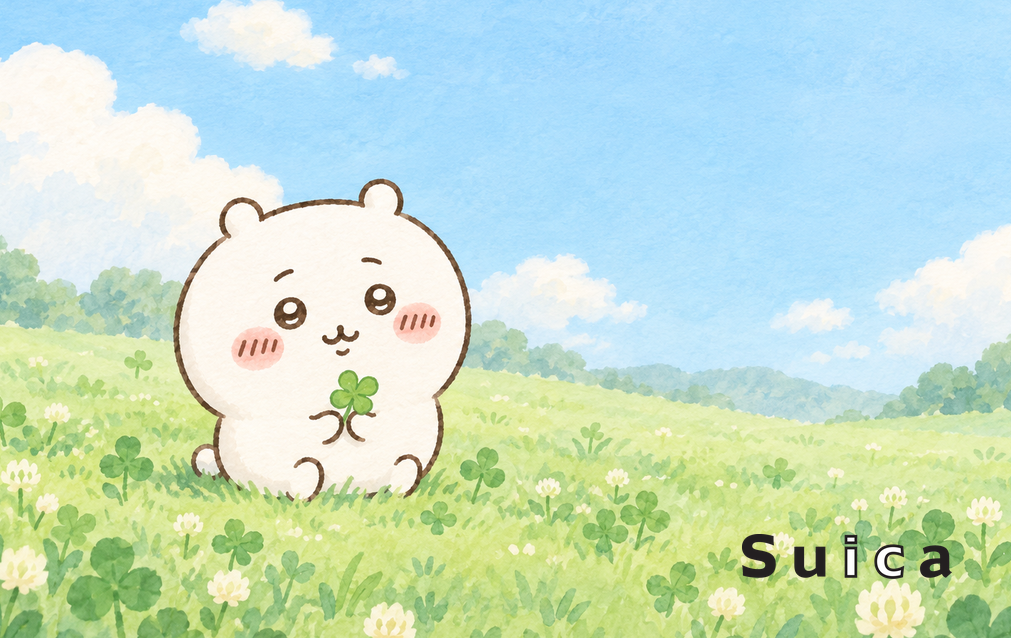
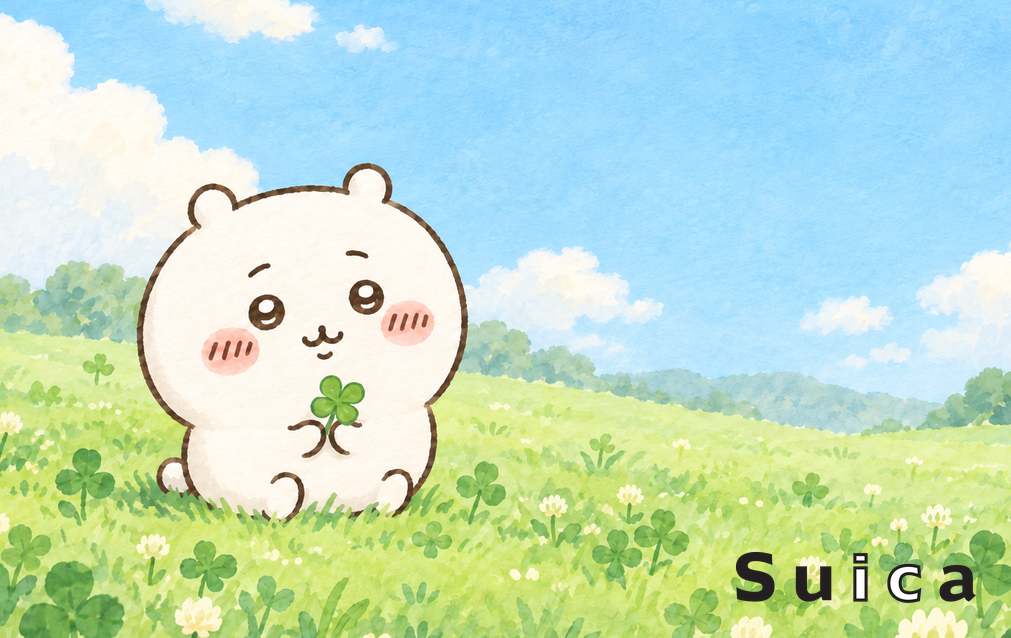
feat: refine card examples with layout direction

diff --git a/README.md b/README.md
@@ -98,8 +98,8 @@ skillhub install card-creator
 默认精确模式中，ImageGen 只负责背景，`card-creator` 再叠加 `status: ready` 的透明贴纸；
 用户明确选择风格化模式时，ImageGen 可以参考可追溯 Logo 做非官方材质化诠释。下面的预览限制
 为 `600 px` 宽，仓库仍保留完整
-`1011 × 638 px` 裁切图。第 1、3、4 张是已贴标成品；第 2 张故意只展示背景，因为它请求的
-两个城市交通标志当前不可合成，不是 Skill 失效或漏贴。非接触感应标志不会默认加入任何示例。
+`1011 × 638 px` 裁切图。第 1、3 张使用 `ready` 透明贴纸精确合成；第 2、4 张是用户明确选择的
+非官方风格化诠释。非接触感应标志不会默认加入任何示例。
 
 ### 1. Chiikawa × Suica
 
@@ -115,9 +115,9 @@ skillhub install card-creator
 ```text
 请参考 https://github.com/juju-w/card-creator-skill 的尺寸与安全区规则，并结合我在当前对话上传的参考图（参考图如上），生成一张清新可爱的 Chiikawa × Suica 非官方个人同人卡面。画面是春日浅绿色草地、淡蓝天空、圆润白云和柔和水彩水粉质感；Chiikawa 单独坐在画面偏左位置，表情开心，手里拿着四叶草。右下角留出干净空间。
 
-输出横向平面画稿，宽高比 1.58577:1，目标裁切尺寸 1011 × 638 px、300 DPI。背景必须铺满画布，人物和重要细节位于中央安全区。不要生成卡片样机、手、透视、圆角遮罩、边框、阴影、卡号、二维码、条形码、水印或无关文字。
+输出横向平面画稿，宽高比 1.58577:1，目标裁切尺寸 1011 × 638 px、300 DPI。背景必须铺满画布，人物和重要细节避免非预期裁切；蓝色安全线只是小字和功能信息参考。不要生成卡片样机、手、透视、圆角遮罩、边框、阴影、卡号、二维码、条形码、水印或无关文字。
 
-如果我上传了 Suica 透明 PNG，请把它原样放在右下安全区，保持比例、颜色和透明度，不要重画、改字或风格化；如果没有收到贴纸文件，就只保留空位，不要生成近似 Suica Logo。请直接生成一张完整卡面预览，并附上最终使用的 Prompt。
+如果我上传了 Suica 透明 PNG，请把它原样放在右下自然卡角位置，保持比例、颜色和透明度，不要重画、改字或风格化；由 Skill 自动检查它与角色的视觉重量和实体裁切边距。如果没有收到贴纸文件，就只保留空位，不要生成近似 Suica Logo。请直接生成一张完整卡面预览，并附上最终使用的 Prompt。
 ```
 
 <details>
@@ -139,25 +139,24 @@ Constraints: background artwork only; no logo, no brand mark, no Suica text, no 
 
 </details>
 
-### 2. 北京水墨交通卡背景（城市标志不可用）
+### 2. 北京水墨 × 市政交通一卡通 × 交通联合
 
 <p align="center">
   <img src="examples/beijing-ink-transit-background.png" width="600" alt="北京水墨交通卡背景示例">
 </p>
 
-**这张图是背景稿，不是已贴标成品。** 背景已完成，并为“交通联合”和“北京一卡通”预留右侧双贴纸位。
-交通联合目前是 `blocked`；北京一卡通官网页头样本是 `reference-only`。因此示例没有调用非自由
-SVG、错版官网页头图或 AI 近似 Logo。
+这张图使用显式风格化模式：左上保留市政交通一卡通常见的正常组合标，右下使用交通联合卡角
+标志，并把两者转成与宣纸水墨一致的矿物蓝、朱砂与晕染边缘。它们仍分别是 `reference-only`
+和 `blocked`，因此这是标注清楚的非官方艺术化诠释，不会进入精确 `ready` 贴纸包。
 
-直接复制给 ChatGPT / Gemini（如果你已经有可用的“交通联合”和“北京一卡通”透明图，请与参考图
-一起上传）：
+直接复制给 ChatGPT / Gemini（上传可追溯的“市政交通一卡通”和“交通联合”卡面参考）：
 
 ```text
-请参考 https://github.com/juju-w/card-creator-skill 的尺寸与安全区规则，并结合我在当前对话上传的参考图（参考图如上），生成一张北京主题的现代水墨交通卡卡面。用暖象牙色宣纸铺满画布，左侧绘制完整的天坛，远处是薄雾中的长城和山势，整体留白克制、安静、有现代编辑感；右侧预留上下两个干净的贴纸位置。
+请参考 https://github.com/juju-w/card-creator-skill 的尺寸与构图规则，并结合我在当前对话上传的参考图（参考图如上），生成一张北京主题的现代水墨交通卡卡面。用暖象牙色宣纸铺满画布，左侧绘制天坛，远处是薄雾中的长城和山势，整体留白克制、安静、有现代编辑感。
 
-输出横向平面画稿，宽高比 1.58577:1，目标裁切尺寸 1011 × 638 px、300 DPI。重要建筑必须完整留在中央安全区，不要裁断天坛。不要生成卡片样机、手、透视、圆角遮罩、边框、阴影、卡号、二维码、条形码、水印、汉字或无关文字。
+输出横向平面画稿，宽高比 1.58577:1，目标裁切尺寸 1011 × 638 px、300 DPI。建筑和水墨可以自然出边，但不得非预期裁断天坛主体。不要生成卡片样机、手、透视、圆角遮罩、边框、阴影、卡号、二维码、条形码、水印或无关文字。
 
-如果我同时上传了“交通联合”和“北京一卡通”的透明贴纸，请保持原始比例、颜色和透明度，将它们原样放入右侧两个安全位置，不要重画或近似；如果没有收到贴纸文件，就只生成背景并保留空位。请直接生成一张完整卡面预览，并附上最终使用的 Prompt。
+根据参考卡面，把市政交通一卡通常见的图形＋名称组合放在左上，把紧凑交通联合标志放在右下；两者都转换成与水墨画统一的矿物蓝、少量朱砂和晕染纸纹，并标注为非官方风格化诠释。由 Skill 自动复核两个标志的视觉重量和光学边距，不加入感应支付标志。如果缺少任一参考，就保留该位置，不要凭空补画。请直接生成一张完整卡面预览，并附上最终使用的 Prompt。
 ```
 
 <details>
@@ -195,7 +194,7 @@ Mastercard 双圆标志仍由 Skill 使用已核验 PNG 叠加，不让模型重
 
 输出横向平面画稿，宽高比 1.58577:1，目标裁切尺寸 1011 × 638 px、300 DPI。背景铺满画布，重要线条交点位于中央安全区。不要生成芯片、卡号、二维码、条形码、水印、无关文字、卡片样机、手、透视、圆角遮罩、边框或阴影，也不要用背景圆形近似 Mastercard 标志。
 
-如果我上传了 Mastercard 透明 PNG，请保持其红橙配色、比例和透明度，将它原样放在右下安全区，不要重画、改色或风格化；如果没有收到贴纸文件，就只保留空位。请直接生成一张完整卡面预览，并附上最终使用的 Prompt。
+如果我上传了 Mastercard 透明 PNG，请保持其红橙配色、比例和透明度，将它原样放在右下自然卡角位置，不要重画、改色或风格化；由 Skill 自动检查它与抽象线条的视觉重量和实体裁切边距。如果没有收到贴纸文件，就只保留空位。请直接生成一张完整卡面预览，并附上最终使用的 Prompt。
 ```
 
 <details>

diff --git a/README_EN.md b/README_EN.md
@@ -108,9 +108,9 @@ repository's `suica.png`:
 ```text
 Follow the dimensions and safe-area rules in https://github.com/juju-w/card-creator-skill and use my uploaded reference image (reference image above) to create an unofficial, non-commercial Chiikawa × Suica fan card face. Paint a fresh spring meadow in pale mint green beneath a powder-blue sky, with rounded white clouds and a soft watercolor-and-gouache texture. Place Chiikawa alone slightly left of center, smiling and holding a four-leaf clover. Keep the lower-right clean.
 
-Create flat landscape artwork at 1.58577:1, targeting a 1011 × 638 px trim at 300 DPI. Keep the character and important details inside the central safe area. No card mockup, hand, perspective, rounded-corner mask, border, shadow, card number, QR code, barcode, watermark, or unrequested text.
+Create flat landscape artwork at 1.58577:1, targeting a 1011 × 638 px trim at 300 DPI. Avoid accidental cropping of the character and important details; the blue safe guide is advisory for small functional information. No card mockup, hand, perspective, rounded-corner mask, border, shadow, card number, QR code, barcode, watermark, or unrequested text.
 
-If I uploaded a transparent Suica PNG, place it unchanged in the lower-right safe area and preserve its proportions, colors, lettering, and transparency. Otherwise leave the space empty; do not generate an approximate Suica logo. Generate one complete preview and include the final prompt you used.
+If I uploaded a transparent Suica PNG, place it unchanged in a natural lower-right card-corner position and preserve its proportions, colors, lettering, and transparency. Let the Skill review optical weight and physical trim breathing room. Otherwise leave the space empty; do not generate an approximate Suica logo. Generate one complete preview and include the final prompt you used.
 ```
 
 ### Minimal line art × Mastercard
@@ -129,27 +129,28 @@ Follow the dimensions and safe-area rules in https://github.com/juju-w/card-crea
 
 Create flat landscape artwork at 1.58577:1, targeting a 1011 × 638 px trim at 300 DPI. No chip, card number, QR code, barcode, watermark, unrequested text, card mockup, hand, perspective, rounded-corner mask, border, or shadow. Do not use background circles that imitate the Mastercard mark.
 
-If I uploaded a transparent Mastercard PNG, place it unchanged in the lower-right safe area and preserve its red/orange colors, proportions, and transparency. Otherwise leave the space empty. Generate one complete preview and include the final prompt you used.
+If I uploaded a transparent Mastercard PNG, place it unchanged in a natural lower-right card-corner position and preserve its red/orange colors, proportions, and transparency. Let the Skill review optical weight and physical trim breathing room. Otherwise leave the space empty. Generate one complete preview and include the final prompt you used.
 ```
 
-### Beijing ink-wash background — city marks unavailable
+### Beijing ink wash × municipal transit × China T-Union
 
 <p align="center">
-  <img src="examples/beijing-ink-transit-background.png" width="600" alt="Beijing ink-wash background awaiting verified stickers">
+  <img src="examples/beijing-ink-transit-background.png" width="600" alt="Beijing ink-wash card with stylized municipal transit and China T-Union marks">
 </p>
 
-This is intentionally a background-only example. It reserves two areas for China T-Union and
-Beijing Yikatong marks. China T-Union is `blocked`; the collected Yikatong website-header sample is
-`reference-only`. The Skill reports that exact assets are unavailable instead of silently omitting them.
+This explicit stylized-mode example keeps the conventional municipal-transit symbol-plus-name lockup
+at upper-left and a compact China T-Union mark at lower-right, translating both into mineral blue,
+cinnabar, and ink-wash edges. Their exact assets remain `reference-only` and `blocked`, so these are
+disclosed non-official interpretations and are never promoted into the exact `ready` sticker pack.
 
-Copy into ChatGPT or Gemini after uploading a reference and any verified transparent marks you own:
+Copy into ChatGPT or Gemini after uploading traceable municipal-transit and China T-Union card references:
 
 ```text
-Follow the dimensions and safe-area rules in https://github.com/juju-w/card-creator-skill and use my uploaded reference image (reference image above) to create a contemporary Beijing ink-wash transit-card face. Fill the canvas with warm ivory rice paper, paint a complete Temple of Heaven on the left, and place a misty Great Wall across the distant mountains. Keep the composition spacious and editorial, with two clean sticker areas stacked on the right.
+Follow the dimensions and composition rules in https://github.com/juju-w/card-creator-skill and use my uploaded reference image (reference image above) to create a contemporary Beijing ink-wash transit-card face. Fill the canvas with warm ivory rice paper, paint the Temple of Heaven on the left, and place a misty Great Wall across the distant mountains. Keep the composition spacious and editorial.
 
-Create flat landscape artwork at 1.58577:1, targeting a 1011 × 638 px trim at 300 DPI. Keep the complete architecture inside the central safe area. No card mockup, hand, perspective, rounded-corner mask, border, shadow, card number, QR code, barcode, watermark, Chinese characters, or unrequested text.
+Create flat landscape artwork at 1.58577:1, targeting a 1011 × 638 px trim at 300 DPI. Architecture and ink wash may naturally run toward the trim, but do not accidentally crop the Temple of Heaven hero. No card mockup, hand, perspective, rounded-corner mask, border, shadow, card number, QR code, barcode, watermark, or unrequested text.
 
-If I uploaded transparent China T-Union and Beijing Yikatong stickers, place them unchanged in the two right-side safe areas and preserve their proportions, colors, lettering, and transparency. If either file is missing, generate the background only and keep its position empty; do not approximate either logo. Generate one complete preview and include the final prompt you used.
+From the traceable card references, place the conventional municipal-transit symbol-plus-name lockup at upper-left and the compact China T-Union mark at lower-right. Reinterpret both with mineral blue, a small cinnabar accent, and ink-wash paper edges; disclose them as non-official stylized interpretations. Let the Skill review optical weight and physical trim breathing room. Do not add a contactless mark. If either reference is missing, leave that area empty rather than inventing it. Generate one complete preview and include the final prompt you used.
 ```
 
 ### Mica clouds and cranes × Bank of China × Palace Museum × UnionPay
